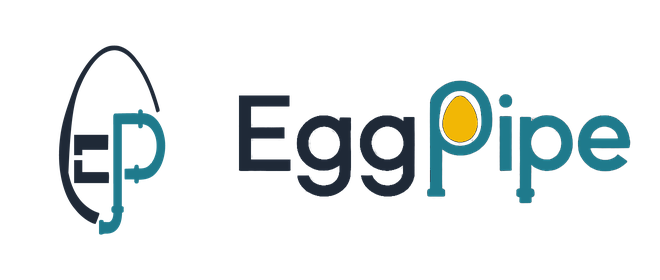
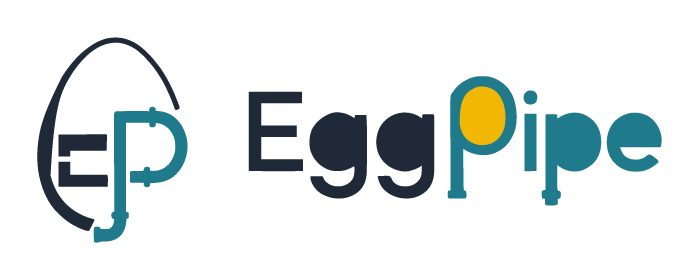
brand: add vector wordmark, lockup and social preview
- trace wordmark and lockup from concept 4 into SVG
- add light and dark vector masters
- regenerate lockup PNGs and GitHub social preview
- document vector assets and remaining icon cleanup

diff --git a/docs/assets/brand/README.md b/docs/assets/brand/README.md
@@ -8,7 +8,7 @@
 docs/assets/brand/
 ├── svg/                         # векторные мастера
 ├── png/                         # экспорты для документации и приложений
-├── lockup/                      # wordmark и lockup light/dark
+├── lockup/                      # wordmark и lockup, SVG + PNG light/dark
 ├── social/                      # GitHub social preview
 ├── favicon.ico
 ├── preview.png
@@ -21,6 +21,10 @@ docs/assets/brand/
 ![Icon variants](preview.png)
 
 ![Small sizes](preview-small-sizes.png)
+
+<img src="lockup/eggpipe-wordmark-light.png" alt="Eggpipe wordmark" width="420">
+
+<img src="lockup/eggpipe-lockup-light.png" alt="Eggpipe lockup" width="420">
 
 ## Где используется
 
@@ -60,20 +64,24 @@ docs/assets/brand/
 
 ## Lockup
 
-- `lockup/eggpipe-lockup-light.png` — иконка + wordmark для светлого фона;
-- `lockup/eggpipe-lockup-dark.png` — для тёмного фона;
-- `lockup/eggpipe-wordmark-light.png` — только wordmark;
-- `lockup/eggpipe-wordmark-dark.png` — только wordmark для тёмного фона.
+Векторные мастера:
 
-Wordmark и lockup сейчас растровые: собраны из концепта 4. После векторного
-wordmark их нужно пересобрать.
+- `lockup/eggpipe-wordmark.svg` — wordmark;
+- `lockup/eggpipe-wordmark-dark.svg` — wordmark для тёмного фона;
+- `lockup/eggpipe-lockup.svg` — иконка + wordmark;
+- `lockup/eggpipe-lockup-dark.svg` — lockup для тёмного фона.
+
+PNG-экспорты:
+
+- `lockup/eggpipe-wordmark-light.png`, `lockup/eggpipe-wordmark-dark.png`;
+- `lockup/eggpipe-lockup-light.png`, `lockup/eggpipe-lockup-dark.png`.
 
 ## Ограничения
 
-- SVG получен автотрассировкой исходного PNG. Перед публичным релизом желательно
-  перерисовать кривые вручную в Figma/Inkscape.
-- `social/eggpipe-social-1280x640.png` использует растровый wordmark из концепта 4.
-  После появления векторного wordmark social preview нужно пересобрать.
+- SVG иконки и wordmark получены автотрассировкой исходных PNG. Перед публичным
+  релизом желательно перерисовать кривые вручную в Figma/Inkscape.
+- `social/eggpipe-social-1280x640.png` собран из векторного lockup; tagline в нём
+  пока растровый.
 - `apple-touch-icon.png` — единственный PNG с фоном, так требует iOS.
 
 ## Пересборка

diff --git a/docs/engineering/decisions/logo-brief.md b/docs/engineering/decisions/logo-brief.md
@@ -195,8 +195,8 @@ Figma/Inkscape и шрифт Inter/Manrope; `P` рисовать вручную.
 | 32–64px | упрощённый `EP` без яйца и фланцев |
 | 128px+ | детальный знак |
 
-SVG получен автотрассировкой исходного PNG. Перед публикацией его желательно
-перерисовать вручную в Figma/Inkscape.
+SVG иконки и wordmark получены автотрассировкой исходных PNG. Перед публикацией
+их желательно перерисовать вручную в Figma/Inkscape.
 
 ## 10. Следующие шаги
 
@@ -204,5 +204,6 @@ SVG получен автотрассировкой исходного PNG. Пе
 2. [x] Собрать черновой SVG-набор и PNG-экспорты.
 3. [x] Разложить ассеты в `docs/assets/brand/`.
 4. [x] Подключить логотип в `mkdocs.yml` и README; favicon — `docs/img/favicon.ico`.
-5. [ ] Перерисовать SVG-кривые вручную и пересобрать social preview после векторного wordmark.
-6. [ ] Проверить на GitHub (light/dark) и PyPI после публикации.
+5. [x] Сделать векторный wordmark и lockup, пересобрать social preview.
+6. [ ] Перерисовать автотрассированную иконку и wordmark вручную.
+7. [ ] Проверить на GitHub (light/dark) и PyPI после публикации.
